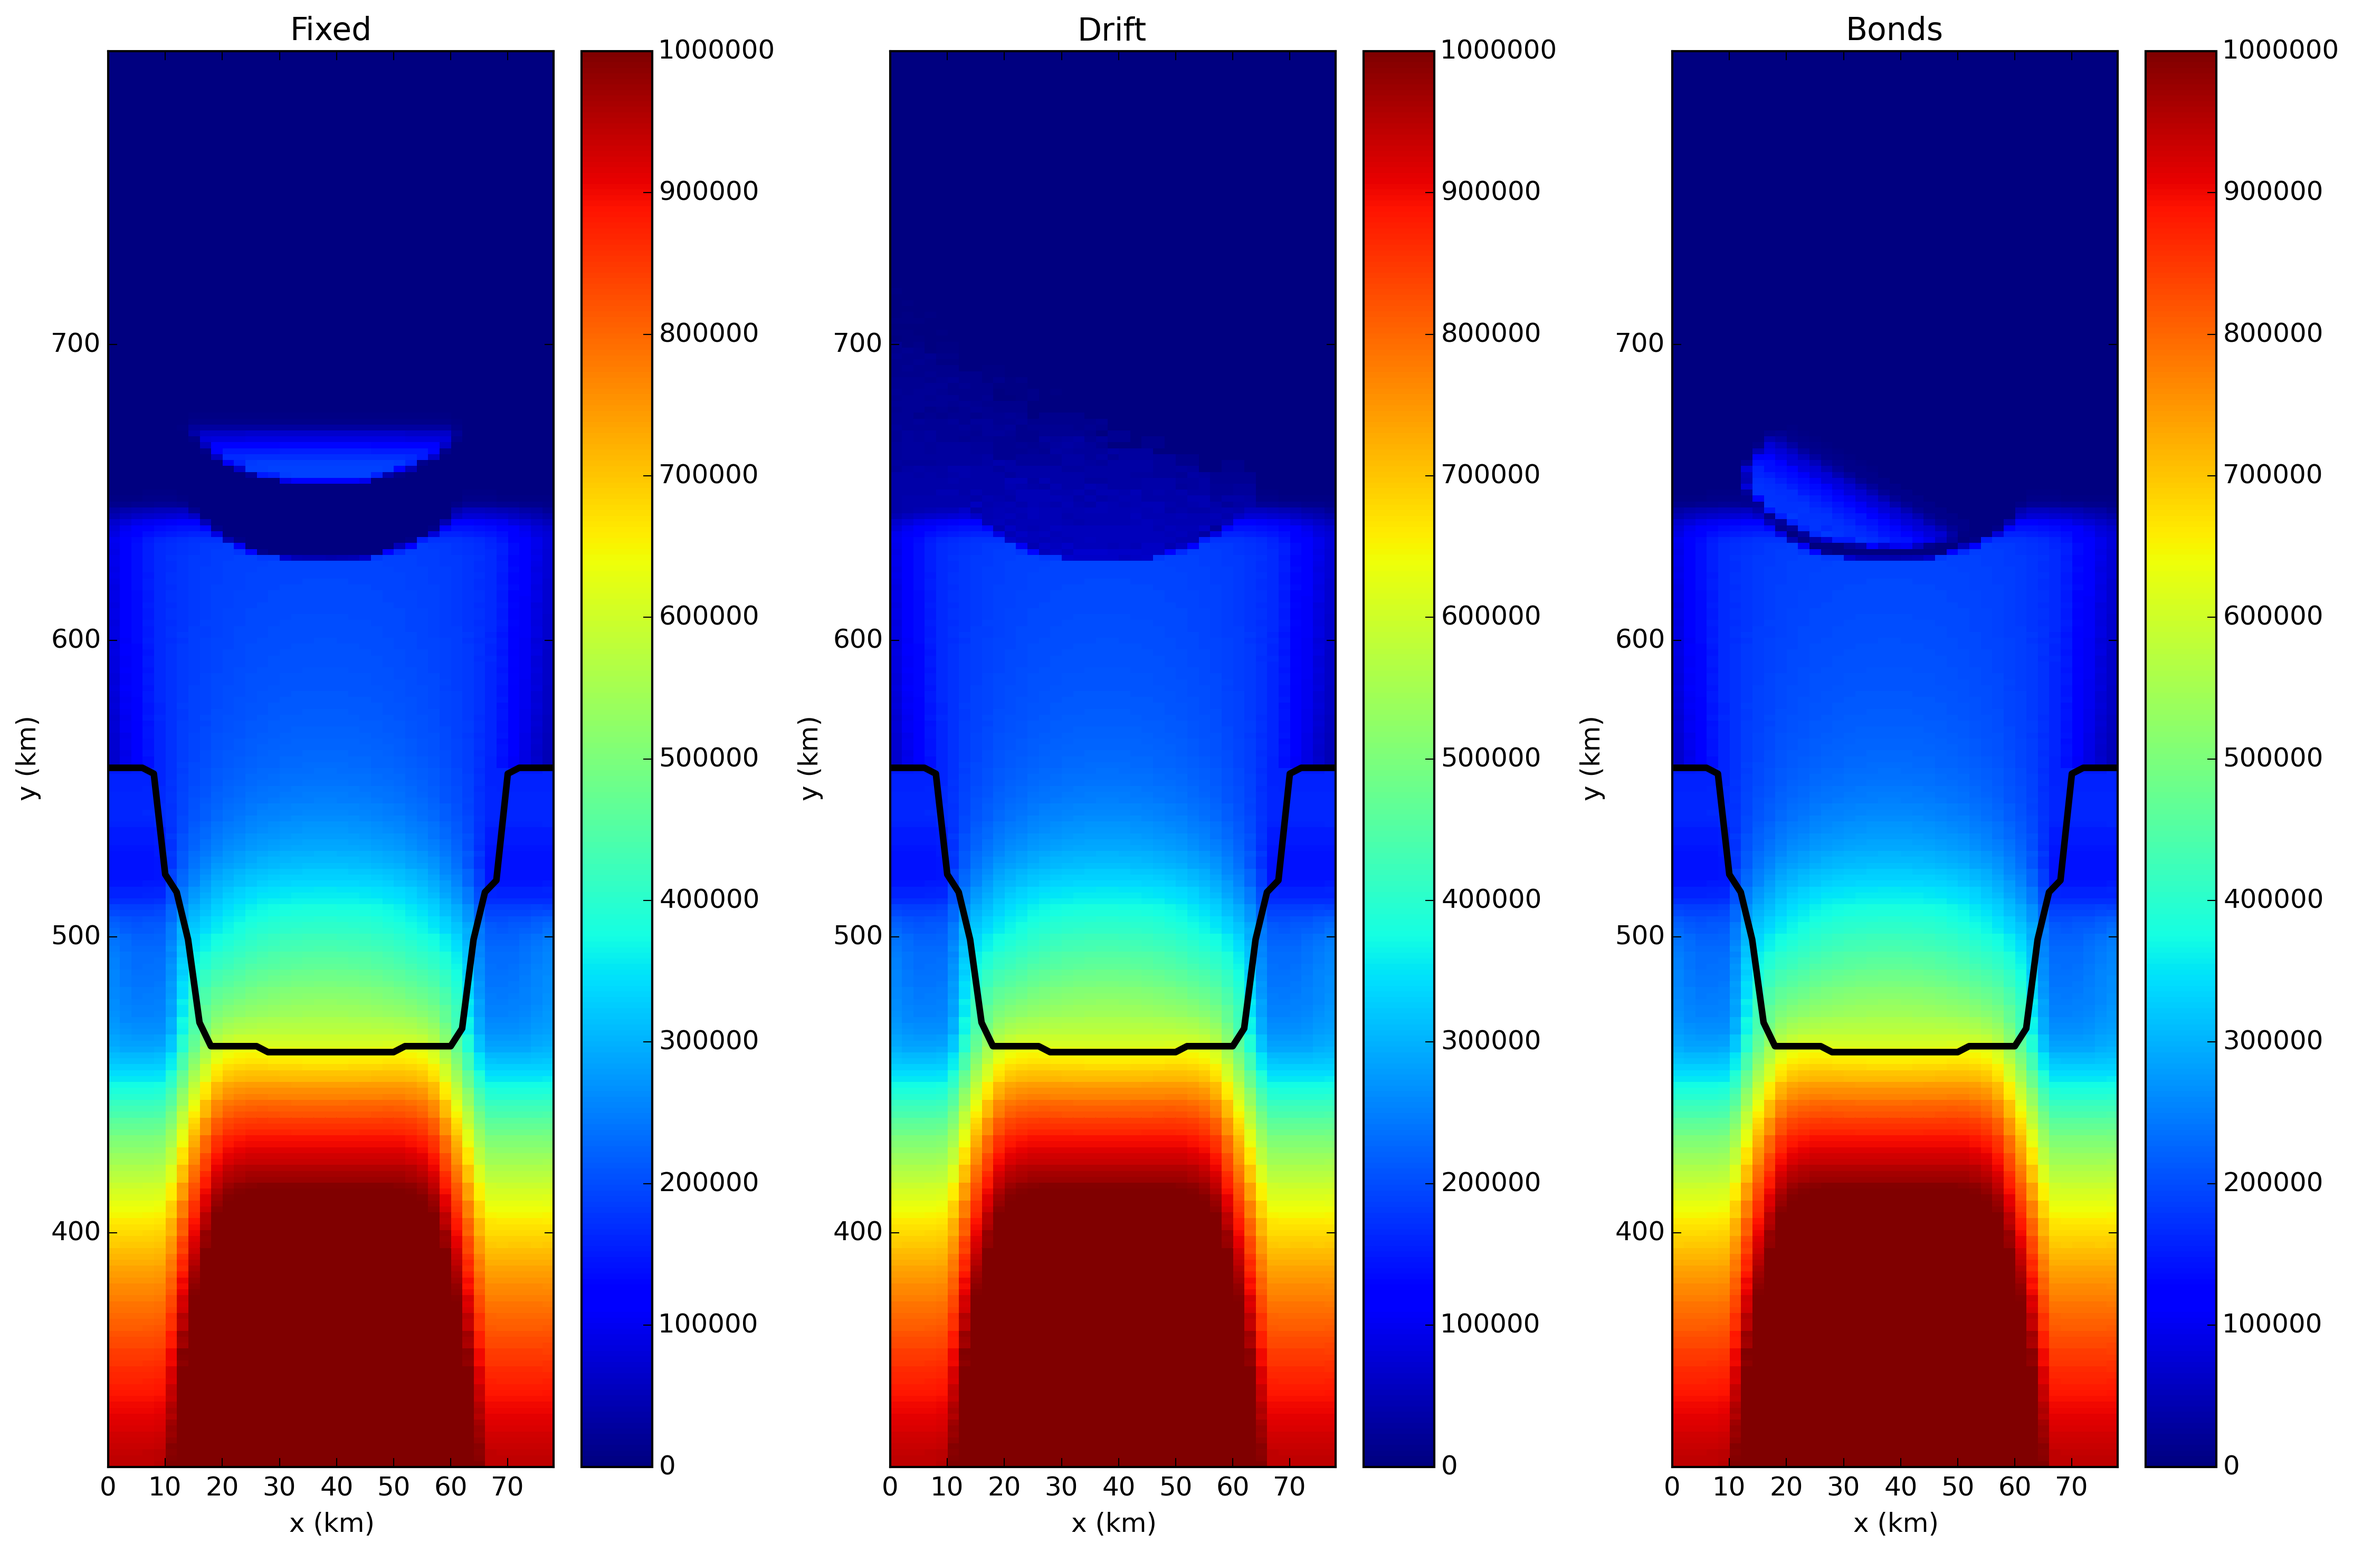
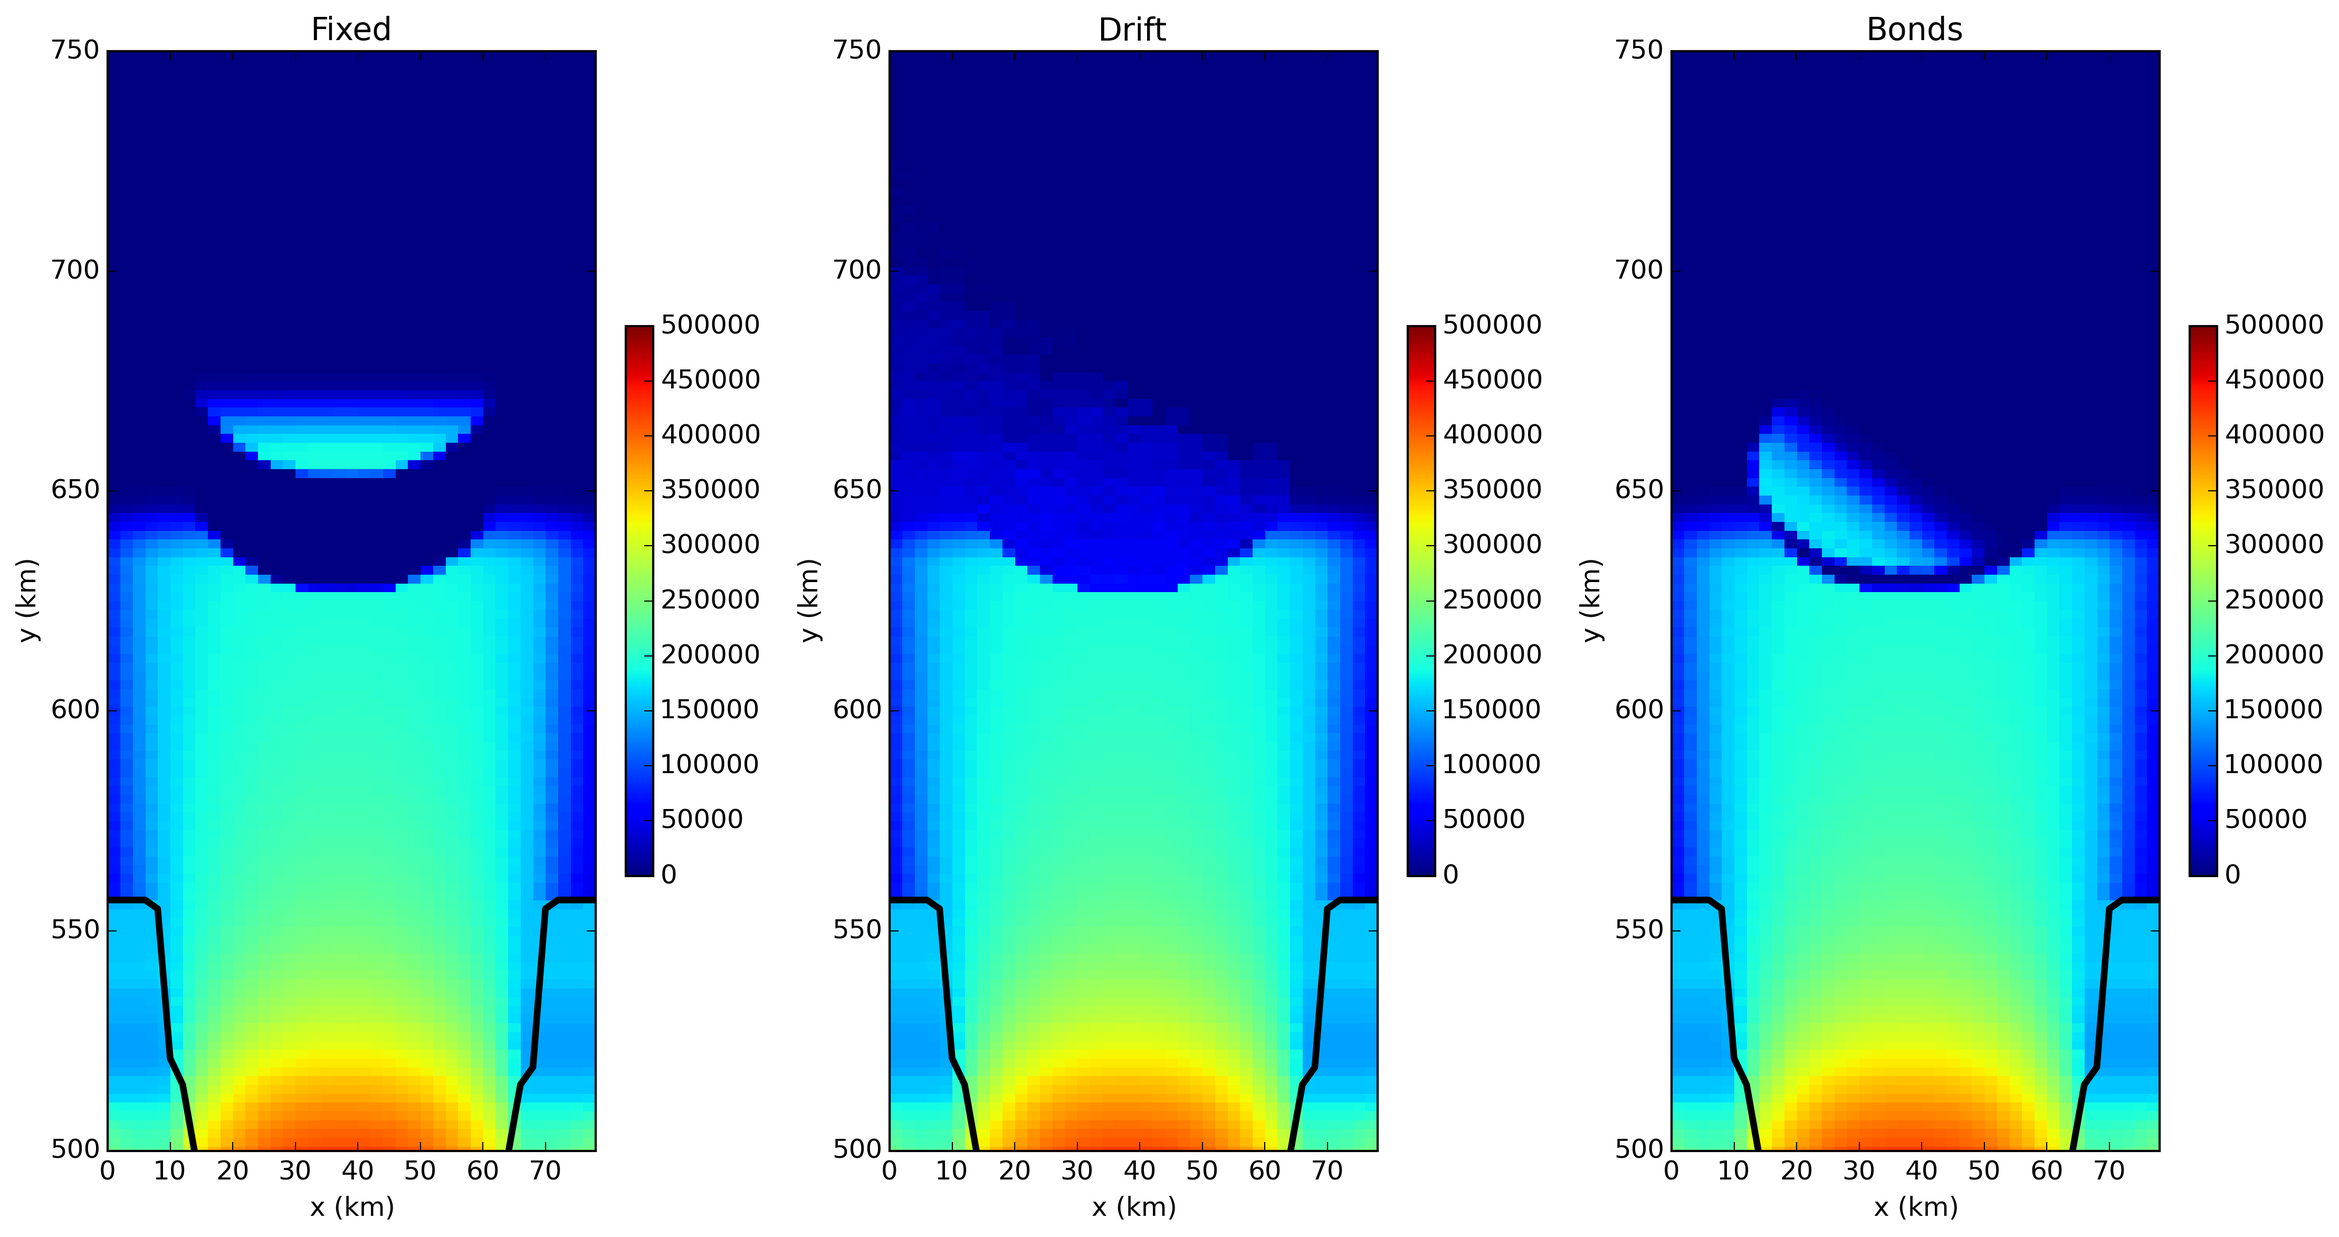
More changesgit add Figures/drift_bond_salt_layers.png!

diff --git a/fixed_drift_bond.py b/fixed_drift_bond.py
@@ -70,7 +70,7 @@ def main():
 
 	
 	#Defining figure characteristics
-	fig=plt.figure(figsize=(15,10))
+	fig=plt.figure(figsize=(15,8))
 	#fig=plt.figure(figsize=(15,10),facecolor='grey')
 	#fig = plt.figure(facecolor='black')
 	#ax = fig.add_subplot(111,axisbg='gray')
@@ -88,7 +88,7 @@ def main():
 
 		#field='sst' ;  vmin=0.0  ; vmax=3.0
 		#field='spread_area' ; vmin=0.0  ; vmax=3.0
-		field='spread_mass' ; vmin=0.0  ; vmax=1000000.
+		field='spread_mass' ; vmin=0.0  ; vmax=500000.
 		#field='spread_uvel' ; vmin=-2.0  ; vmax=1.0
 
 		data1=load_and_compress_data(Fixed_iceberg_file,field=field,time_slice=time_slice,time_slice_num=-1,rotated=rotated)
@@ -99,13 +99,13 @@ def main():
 		#data2=mask_ocean(data2,shelf_area)
 		#data3=mask_ocean(data3,shelf_area)
 		plt.subplot(1,3,1)
-		plot_data_field(data1,x,y,vmin,vmax,flipped,colorbar=True,cmap='jet',title='Fixed',xlabel='x (km)',ylabel='y (km)')	
+		plot_data_field(data1,x,y,vmin,vmax,flipped,colorbar=True,cmap='jet',title='Fixed',xlabel='x (km)',ylabel='y (km)', ylim_min=500.,ylim_max=750.)	
 		plt.plot(xvec,grounding_line, linewidth=3.0,color='black')
 		plt.subplot(1,3,2)
-		plot_data_field(data2,x,y,vmin,vmax,flipped,colorbar=True,cmap='jet',title='Drift',xlabel='x (km)',ylabel='y (km)')	
+		plot_data_field(data2,x,y,vmin,vmax,flipped,colorbar=True,cmap='jet',title='Drift',xlabel='x (km)',ylabel='y (km)', ylim_min=500.,ylim_max=750.)	
 		plt.plot(xvec,grounding_line, linewidth=3.0,color='black')
 		plt.subplot(1,3,3)
-		plot_data_field(data3,x,y,vmin,vmax,flipped,colorbar=True,cmap='jet',title='Bonds',xlabel='x (km)',ylabel='y (km)')	
+		plot_data_field(data3,x,y,vmin,vmax,flipped,colorbar=True,cmap='jet',title='Bonds',xlabel='x (km)',ylabel='y (km)', ylim_min=500.,ylim_max=750.)	
 		plt.plot(xvec,grounding_line, linewidth=3.0,color='black')
 
 

diff --git a/static_shelf_comparison.py b/static_shelf_comparison.py
@@ -281,6 +281,9 @@ def plot_data_field(data,x,y,vmin=None,vmax=None,flipped=False,colorbar=True,cma
 		y=transpose_matrix(y)
 		y=-y+(np.max(y))
 		(xlabel , ylabel) = switch_x_and_y(xlabel , ylabel)
+		(xlim_max , ylim_max) = switch_x_and_y(xlim_max , ylim_max)
+		(xlim_min , ylim_min) = switch_x_and_y(xlim_min , ylim_min)
+
 	
 	print 'Starting to plot...'	
 	if vmin==None:

diff --git a/snapshots.py b/snapshots.py
@@ -84,8 +84,8 @@ def main():
 	#fig=plt.figure(figsize=(10,10),facecolor='grey')
 	#fig = plt.figure(facecolor='black')
 	#ax = fig.add_subplot(111,axisbg='gray')
-	time_slice_num=np.array([9, 24, 24])  #When using prog 
-	#time_slice_num=np.array([220,580,580])
+	#time_slice_num=np.array([8, 24, 24])  #When using prog 
+	time_slice_num=np.array([220,580,580])
 
 
 
